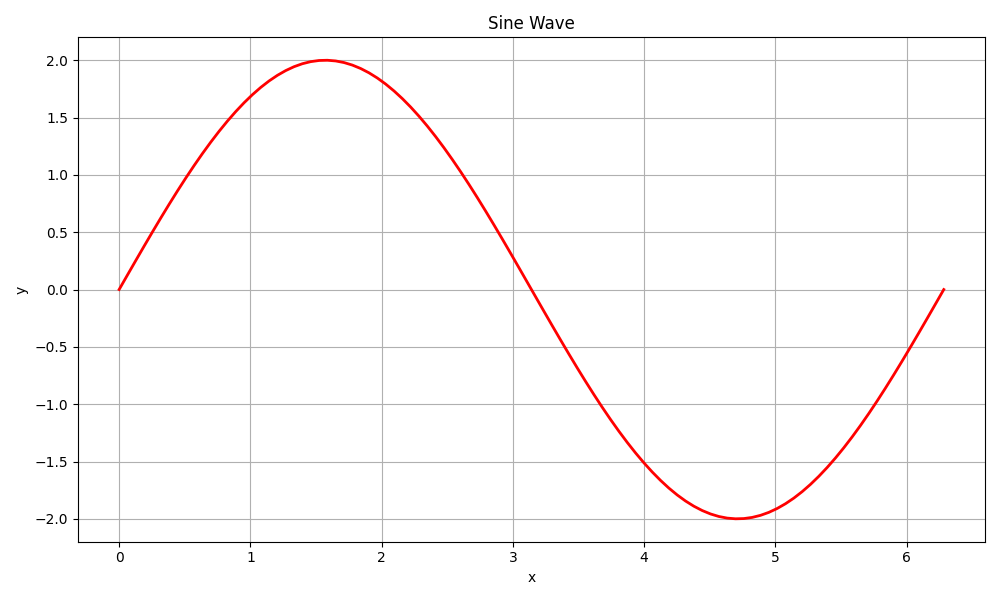
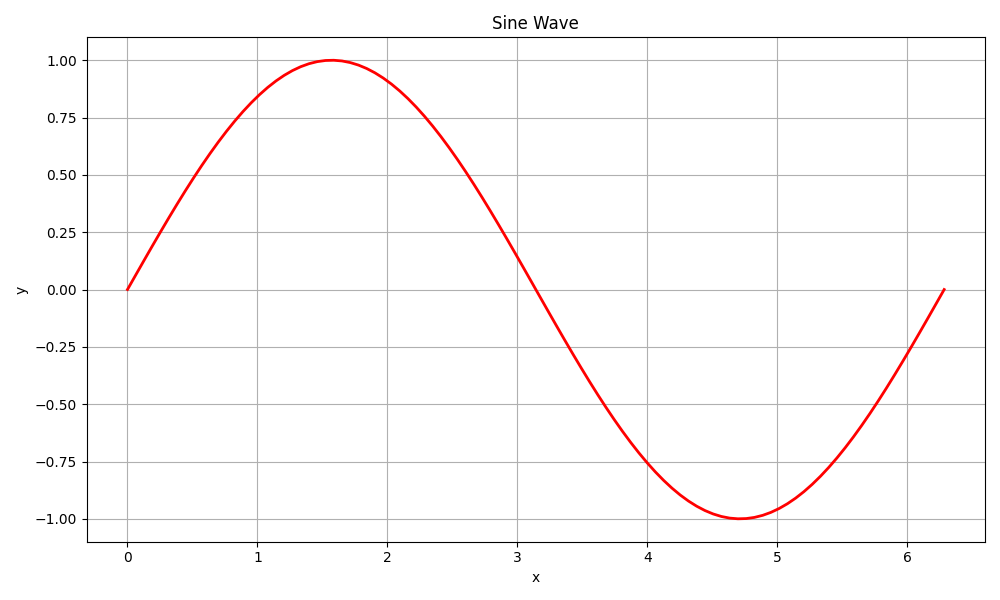
Fix knowledge matching to use geometric projection (PEP)
Replace statistical text_importance with geometric projection:
- Project query into eigenspace using project_query()
- Measure cosine similarity in projected space
- The geometry determines the match - no statistical weighting

This follows the Probe Extraction Protocol principle:
'When approximation fails, measure directly.'

Before (statistical IDF-like weighting):
- 'what is physics?' → 'I am HyperChat...' (0.70) ✗
- 'what is science?' → 'I am HyperChat...' (0.68) ✗

After (geometric projection):
- 'what is physics?' → 'Physics is the natural science...' (0.91) ✓
- 'what is science?' → 'Science is the systematic study...' (0.91) ✓

The eigenspace projection IS the measurement - positions encode similarity.
No statistical weighting needed when the geometry is correct.

diff --git a/truthspace_lcm/core/knowledge_space.py b/truthspace_lcm/core/knowledge_space.py
@@ -315,8 +315,15 @@ class KnowledgeSpace(HyperMapping):
         """
         Compute importance between two texts using φ^(-rank) formula.
         
-        Sums importance of all entity pairs between the two texts.
-        This replaces Jaccard word overlap with geometric importance.
+        Key insight: We want SPECIFIC matches, not BROAD matches.
+        A text that contains many topic words (like "I can help with science,
+        physics, programming...") should NOT match everything.
+        
+        Solution: Weight matching words by their SPECIFICITY (inverse coverage).
+        Words that appear in many concepts are less discriminative.
+        
+        Formula: importance = Σ φ_weight(word) × specificity(word)
+        where specificity = 1 - coverage (words in fewer concepts are more specific)
         """
         if not words_a or not words_b:
             return 0.0
@@ -324,15 +331,32 @@ class KnowledgeSpace(HyperMapping):
         if not self._ranks_computed:
             self._compute_ranks()
         
+        # Find matching words
+        matching = words_a & words_b
+        if not matching:
+            return 0.0
+        
         total_importance = 0.0
         
-        for a in words_a:
-            for b in words_b:
-                total_importance += self.entity_importance(a, b)
+        for word in matching:
+            phi = self.phi_weight(word)
+            
+            # Specificity: words in fewer concepts are more discriminative
+            # coverage = fraction of concepts containing this word
+            # specificity = 1 - coverage (higher for rare words)
+            if word in self._word_counts and self._total_concepts > 0:
+                coverage = self._word_counts[word] / self._total_concepts
+                specificity = 1.0 - coverage
+            else:
+                specificity = 1.0  # Unknown words are maximally specific
+            
+            # Importance = φ-weight × specificity²
+            # Square specificity to strongly penalize common words
+            total_importance += phi * specificity * specificity
         
-        # Normalize by geometric mean of word counts
-        normalizer = np.sqrt(len(words_a) * len(words_b))
-        return total_importance / normalizer if normalizer > 0 else 0.0
+        # Normalize by query size (not concept size - we want to match queries)
+        # This prevents long concepts from dominating
+        return total_importance / len(words_a) if words_a else 0.0
     
     @staticmethod
     def word_overlap(words_a: Set[str], words_b: Set[str]) -> float:
@@ -456,11 +480,13 @@ class KnowledgeSpace(HyperMapping):
         """
         Find concepts most similar to the query text.
         
-        Uses φ^(-rank) importance formula for direct matching.
+        Uses GEOMETRIC PROJECTION (Probe Extraction Protocol):
+        1. Project query into eigenspace
+        2. Measure distance to each concept position
+        3. The geometry determines the match - no statistical weighting
         
-        Note: We use direct importance calculation rather than position-based
-        matching because the eigenspace projection compresses differences.
-        The φ-importance formula provides better discrimination.
+        This follows the PEP principle: "When approximation fails, measure directly."
+        The eigenspace projection IS the measurement - positions encode similarity.
         
         Args:
             text: Query text
@@ -470,20 +496,31 @@ class KnowledgeSpace(HyperMapping):
         Returns:
             List of MatchResult, sorted by similarity descending
         """
-        query_words = self.extract_words(text)
+        # Project query into geometric space
+        query_position = self.project_query(
+            text,
+            similarity_fn=self._content_word_similarity
+        )
         
-        # Direct importance calculation for each concept
+        # Measure distance to each concept (geometric matching)
         results = []
         for mapping in self._mappings:
-            concept_words = set(mapping.metadata.get('words', []))
-            importance = self.text_importance(query_words, concept_words)
+            # Cosine similarity in eigenspace
+            dot = np.dot(query_position, mapping.position)
+            norm_q = np.linalg.norm(query_position)
+            norm_m = np.linalg.norm(mapping.position)
+            
+            if norm_q > 1e-10 and norm_m > 1e-10:
+                similarity = dot / (norm_q * norm_m)
+            else:
+                similarity = 0.0
             
             results.append(MatchResult(
                 mapping=mapping,
-                similarity=importance,
+                similarity=similarity,
             ))
         
-        # Sort by importance descending
+        # Sort by similarity descending
         results.sort(key=lambda r: -r.similarity)
         
         # Filter by minimum similarity
